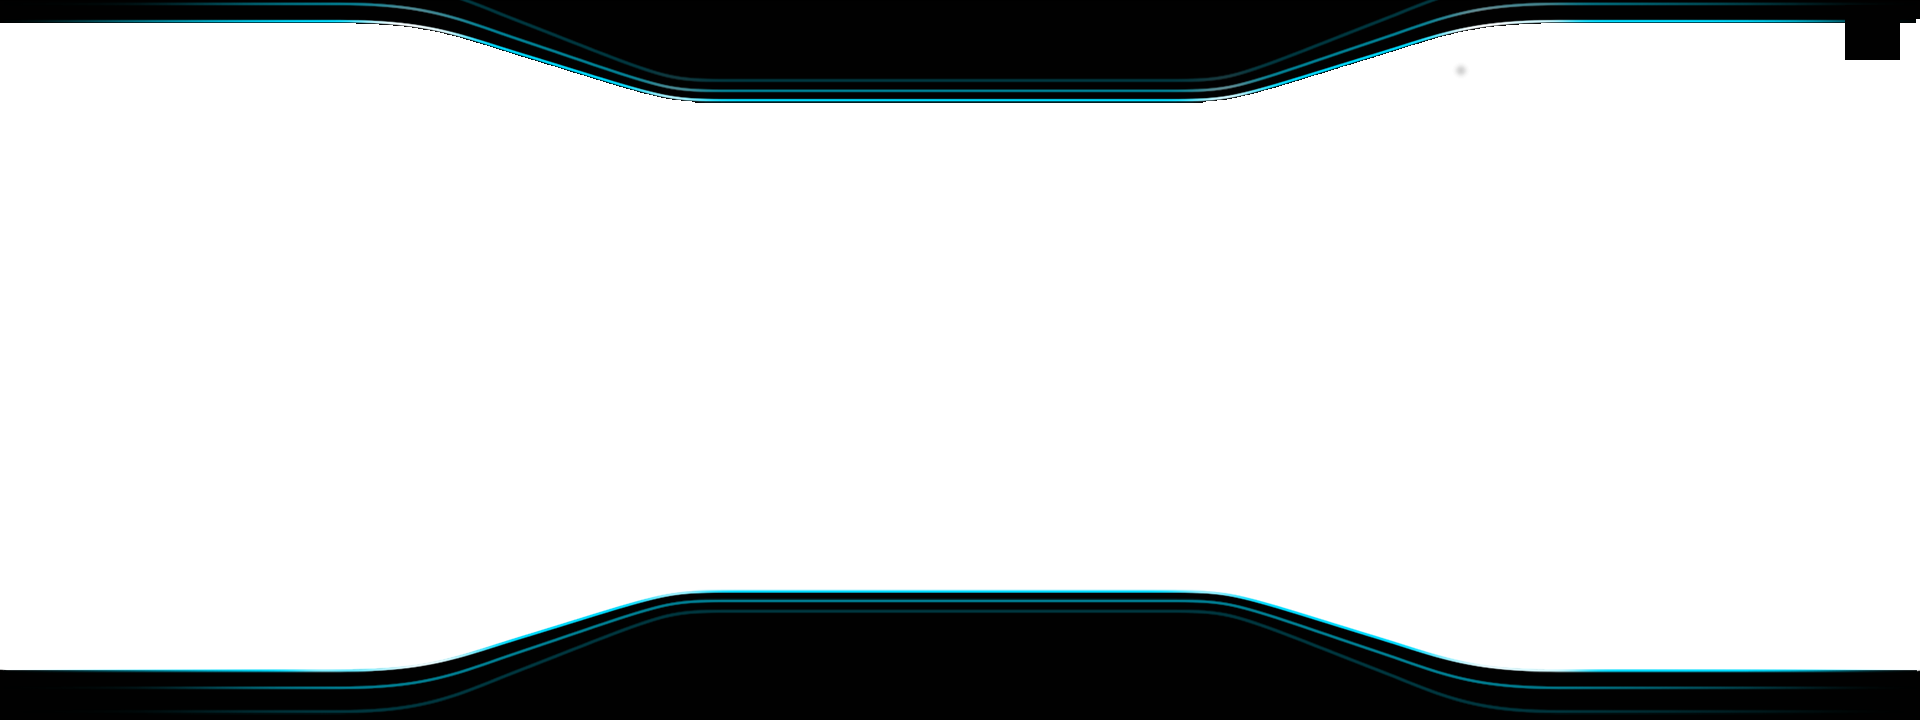
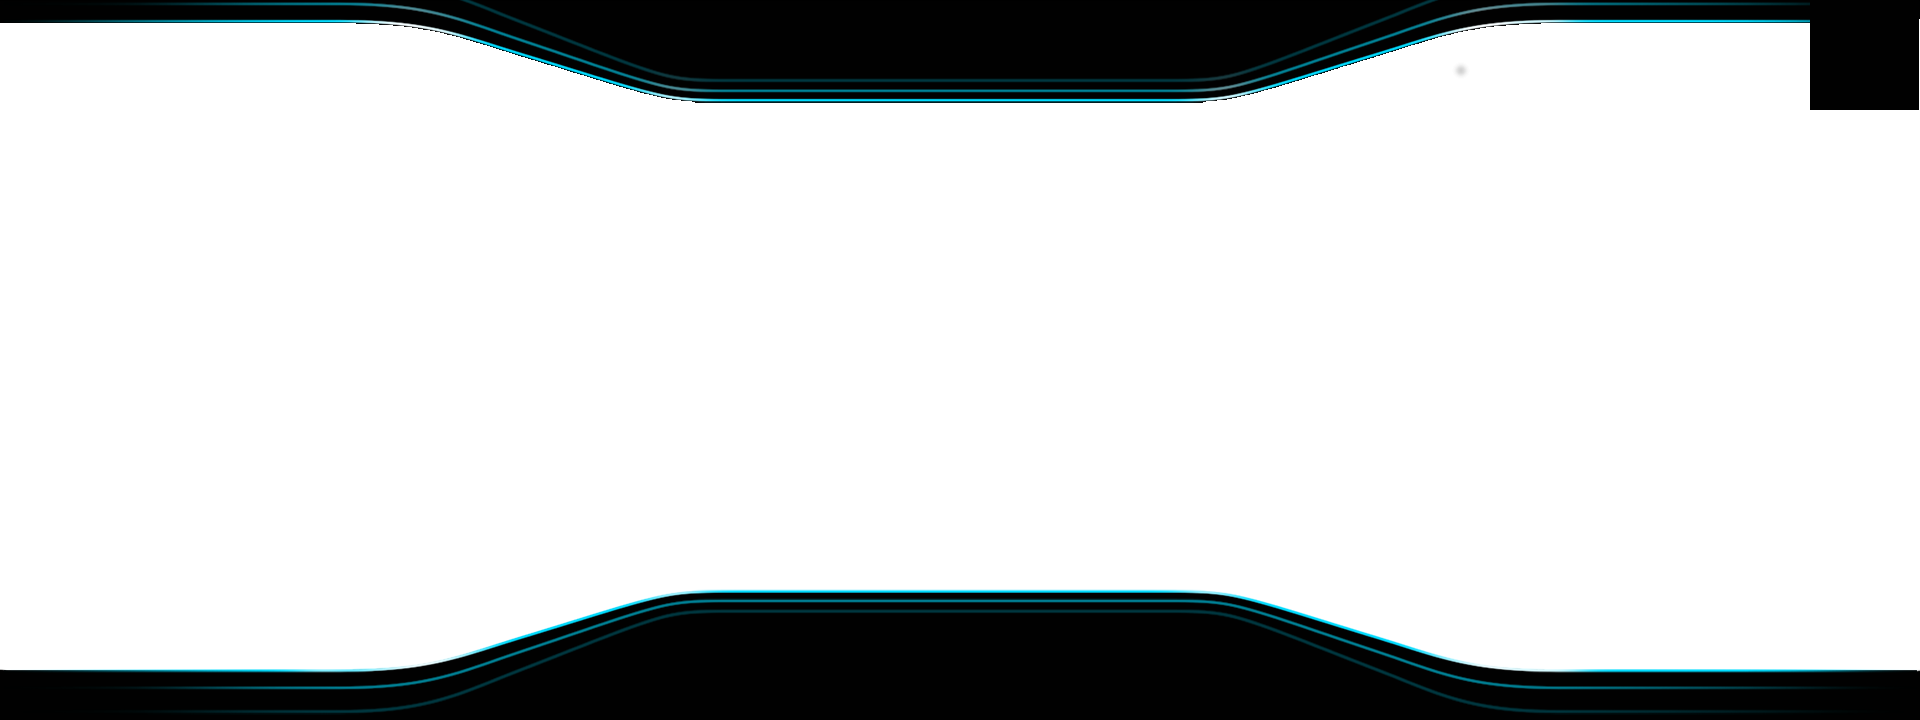
change fullscreen button size.

Changed region(s): [[0.9375, 0.0306, 1.0, 0.1528]]

diff --git a/homescreen/qml/main.qml b/homescreen/qml/main.qml
@@ -134,38 +134,44 @@ Window {
 
     Item {
         id: switchBtn
+        width: 110
+        height: 110
         anchors.right: parent.right
-        anchors.rightMargin: 20
         anchors.top: parent.top
-        anchors.topMargin: 5
-        width: 55
-        height: 55
         z: 1
+        Image {
+            id: image
+            width: 55
+            height: 55
+            anchors.right: parent.right
+            anchors.rightMargin: 20
+            anchors.top: parent.top
+            anchors.topMargin: 5
+            source: './images/normal.png'
+        }
 
         MouseArea {
             anchors.fill: parent
             property string btnState: 'normal'
-            Image {
-                id: image
-                anchors.fill: parent
-                source: './images/normal.png'
-            }
             onClicked: {
-                if (btnState === 'normal') {
-                    image.source = './images/fullscreen.png'
-                    btnState = 'fullscreen'
-                    container.state = 'fullscreen'
-                    container.opacity = 0.0
-                    touchArea.switchArea(1)
-
+                if (container.state === 'normal') {
+                    turnToFullscreen()
                 } else {
-                    image.source = './images/normal.png'
-                    btnState = 'normal'
-                    container.state = 'normal'
-                    container.opacity = 1.0
-                    touchArea.switchArea(0)
+                    turnToNormal()
                 }
             }
         }
+    }
+    function turnToFullscreen() {
+        image.source = './images/fullscreen.png'
+        container.state = 'fullscreen'
+        container.opacity = 0.0
+        touchArea.switchArea(1)
+    }
+    function turnToNormal() {
+        image.source = './images/normal.png'
+        container.state = 'normal'
+        container.opacity = 1.0
+        touchArea.switchArea(0)
     }
 }

diff --git a/homescreen/src/main.cpp b/homescreen/src/main.cpp
@@ -93,6 +93,9 @@ int main(int argc, char *argv[])
     qmlRegisterType<StatusBarModel>("HomeScreen", 1, 0, "StatusBarModel");
 
     ApplicationLauncher *launcher = new ApplicationLauncher();
+    HomescreenHandler* homescreenHandler = new HomescreenHandler();
+    homescreenHandler->init(port, token.toStdString().c_str());
+
     QLibWindowmanager* layoutHandler = new QLibWindowmanager();
     if(layoutHandler->init(port,token) != 0){
         exit(EXIT_FAILURE);
@@ -101,24 +104,6 @@ int main(int argc, char *argv[])
     if (layoutHandler->requestSurface(QString("homescreen")) != 0) {
         exit(EXIT_FAILURE);
     }
-
-    layoutHandler->set_event_handler(QLibWindowmanager::Event_SyncDraw, [layoutHandler](json_object *object) {
-        layoutHandler->endDraw(QString("homescreen"));
-    });
-
-    layoutHandler->set_event_handler(QLibWindowmanager::Event_ScreenUpdated, [layoutHandler, launcher](json_object *object) {
-        json_object *jarray = json_object_object_get(object, "ids");
-        int arrLen = json_object_array_length(jarray);
-        for( int idx = 0; idx < arrLen; idx++)
-        {
-            QString label = QString(json_object_get_string(	json_object_array_get_idx(jarray, idx) ));
-            HMI_DEBUG("HomeScreen","Event_ScreenUpdated application: %s.", label.toStdString().c_str());
-            QMetaObject::invokeMethod(launcher, "setCurrent", Qt::QueuedConnection, Q_ARG(QString, label));
-        }
-    });
-
-    HomescreenHandler* homescreenHandler = new HomescreenHandler();
-    homescreenHandler->init(port, token.toStdString().c_str());
 
     QUrl bindingAddress;
     bindingAddress.setScheme(QStringLiteral("ws"));
@@ -134,7 +119,7 @@ int main(int argc, char *argv[])
 
     // mail.qml loading
     QQmlApplicationEngine engine;
-    engine.rootContext()->setContextProperty("layoutHandler", layoutHandler);
+//    engine.rootContext()->setContextProperty("layoutHandler", layoutHandler);
     engine.rootContext()->setContextProperty("homescreenHandler", homescreenHandler);
     engine.rootContext()->setContextProperty("touchArea", touchArea);
     engine.rootContext()->setContextProperty("launcher", launcher);
@@ -143,6 +128,29 @@ int main(int argc, char *argv[])
     engine.load(QUrl(QStringLiteral("qrc:/main.qml")));
 
     QObject *root = engine.rootObjects().first();
+
+    layoutHandler->set_event_handler(QLibWindowmanager::Event_SyncDraw, [layoutHandler](json_object *object) {
+        layoutHandler->endDraw(QString("homescreen"));
+    });
+
+    layoutHandler->set_event_handler(QLibWindowmanager::Event_ScreenUpdated, [layoutHandler, launcher, root](json_object *object) {
+        json_object *jarray = json_object_object_get(object, "ids");
+        int arrLen = json_object_array_length(jarray);
+        for( int idx = 0; idx < arrLen; idx++)
+        {
+            QString label = QString(json_object_get_string(	json_object_array_get_idx(jarray, idx) ));
+            HMI_DEBUG("HomeScreen","Event_ScreenUpdated application: %s.", label.toStdString().c_str());
+            QMetaObject::invokeMethod(launcher, "setCurrent", Qt::QueuedConnection, Q_ARG(QString, label));
+            if(label == "launcher") {
+                QMetaObject::invokeMethod(root, "turnToNormal");
+//                homescreenHandler->emitTurnToFullscreen(false);
+            } else {
+                QMetaObject::invokeMethod(root, "turnToFullscreen");
+//                homescreenHandler->emitTurnToFullscreen(true);
+            }
+        }
+    });
+
     QQuickWindow *window = qobject_cast<QQuickWindow *>(root);
 
     touchArea->setWindow(window);
